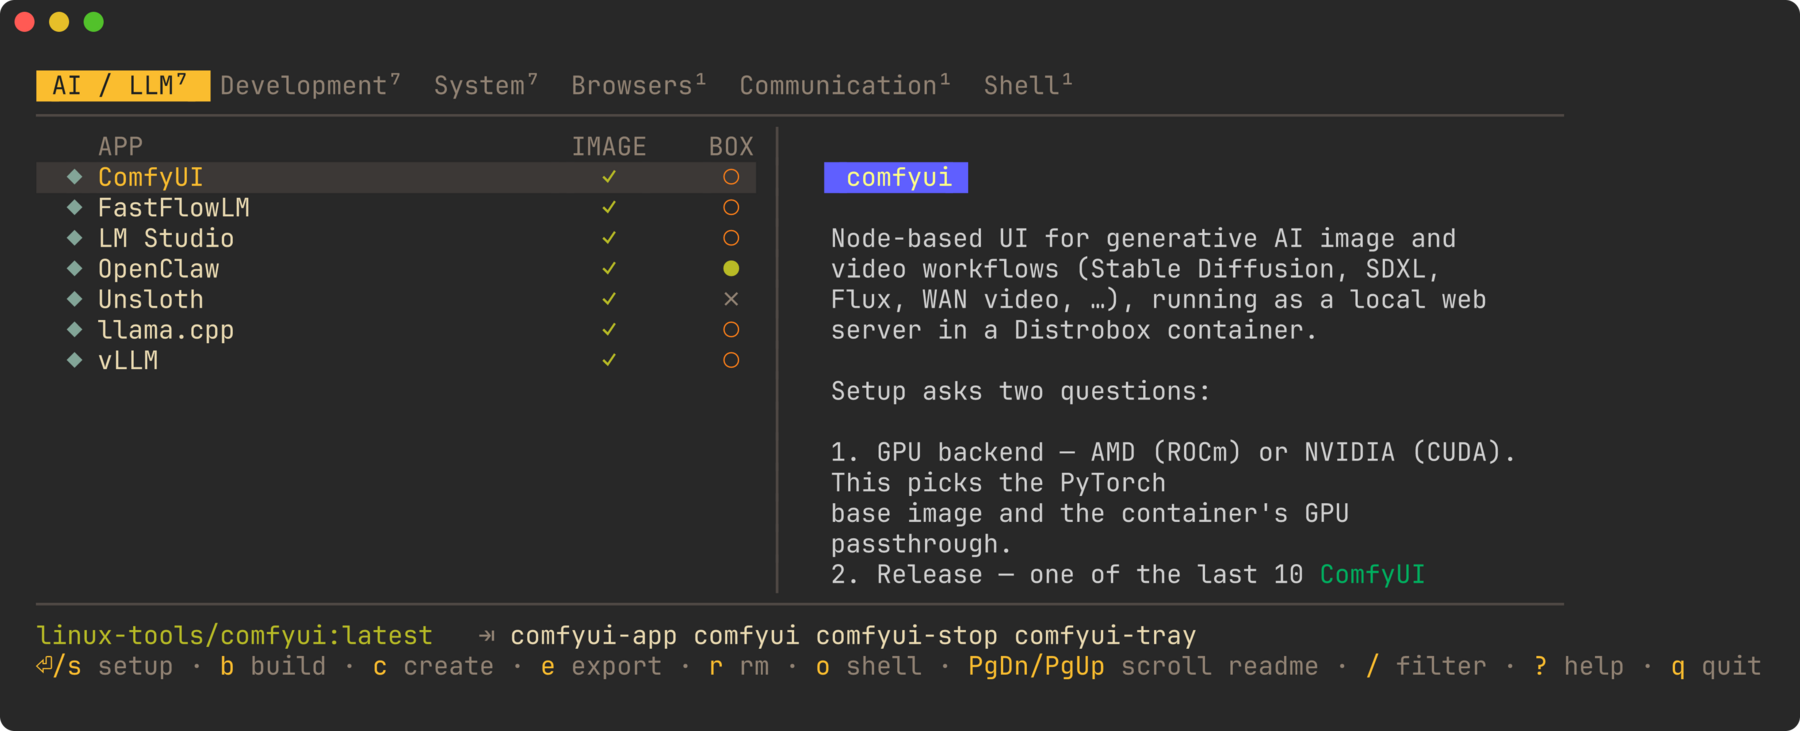
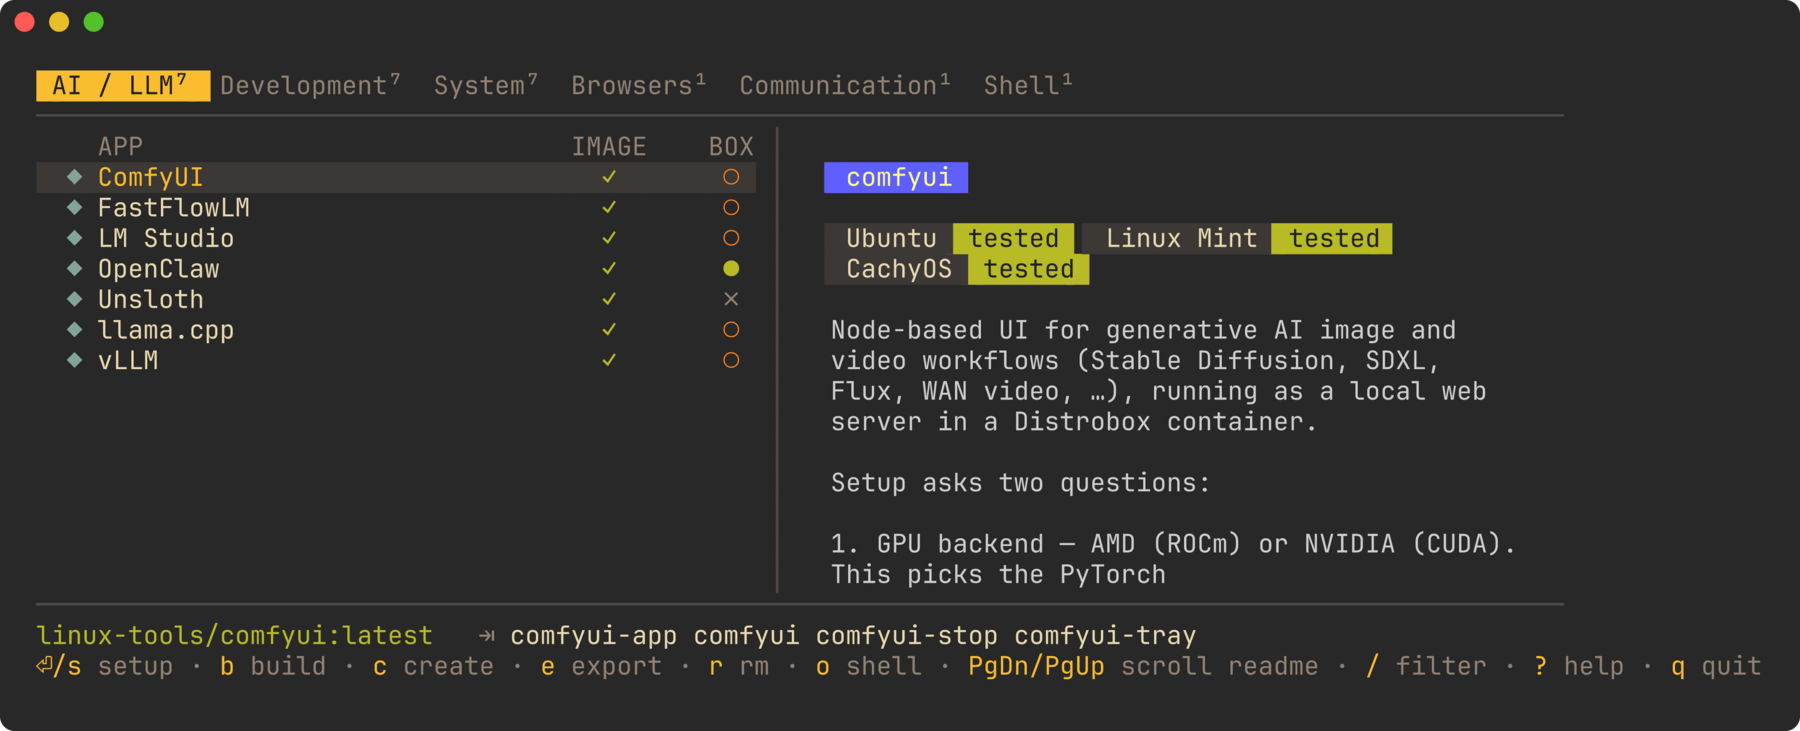
feat(tui): render compatibility badges in the README panel
The badge rows added in 2f73985 are raw HTML, which glamour drops, so
they showed on GitHub but not in the dashboard — the panel the user
actually reads before installing an app.

tui/badges.go now lifts the row out of the README before rendering and
paints it back in as two-tone terminal pills: a dim label half and a
verdict half, green for tested and grey for untested. The row keeps its
position under the heading and glamour's left margin, and wraps instead
of spilling past the panel edge when the pane is narrow.

The README stays the single source of truth — no per-app metadata file
to drift out of sync with what GitHub shows. The parser keys on the
first HTML <p> holding img.shields.io links, reads label and value from
each alt="<label>: <value>", and takes the verdict from the URL colour
rather than the alt text, so the pill always matches the badge. A
README with no badge row renders exactly as before.

CLAUDE.md's note that the HTML form is invisible in the panel is no
longer true; corrected, with the parser's expectations written down.
docs/images/dashboard.png regenerated to show the pills.

Changed region(s): [[0.4667, 0.301, 0.84, 0.8126]]

diff --git a/tui/badges_test.go b/tui/badges_test.go
@@ -1,0 +1,138 @@
+package main
+
+import (
+	"charm.land/lipgloss/v2"
+	"strings"
+	"testing"
+)
+
+const shields = "https://img.shields.io/badge"
+
+func badgeReadme(cachy string) string {
+	return "# nvtop\n\n<p>\n" +
+		`  <img alt="Ubuntu: tested" src="` + shields + `/Ubuntu-tested-brightgreen?logo=ubuntu&logoColor=white">` + "\n" +
+		`  <img alt="Linux Mint: tested" src="` + shields + `/Linux_Mint-tested-brightgreen?logo=linuxmint&logoColor=white">` + "\n" +
+		`  <img alt="CachyOS: ` + cachy + `" src="` + shields + `/CachyOS-` + cachy + `-lightgrey?logo=archlinux&logoColor=white">` + "\n" +
+		"</p>\n\nSome description.\n"
+}
+
+func TestExtractBadges(t *testing.T) {
+	src, badges := extractBadges(badgeReadme("untested"))
+
+	if len(badges) != 3 {
+		t.Fatalf("got %d badges, want 3: %+v", len(badges), badges)
+	}
+	want := []badge{
+		{label: "Ubuntu", value: "tested", ok: true},
+		{label: "Linux Mint", value: "tested", ok: true},
+		{label: "CachyOS", value: "untested", ok: false},
+	}
+	for i, w := range want {
+		if badges[i] != w {
+			t.Errorf("badge %d = %+v, want %+v", i, badges[i], w)
+		}
+	}
+
+	// The HTML must be gone, replaced by a placeholder glamour can render, or
+	// the row would be dropped silently and the pills would have nowhere to go.
+	if strings.Contains(src, "<img") || strings.Contains(src, "shields.io") {
+		t.Errorf("badge HTML survived extraction:\n%s", src)
+	}
+	if !strings.Contains(src, badgePlaceholder) {
+		t.Errorf("placeholder missing from:\n%s", src)
+	}
+	if !strings.Contains(src, "# nvtop") || !strings.Contains(src, "Some description.") {
+		t.Errorf("extraction ate surrounding content:\n%s", src)
+	}
+}
+
+// The verdict comes from the shields colour, not the alt text, so a README
+// whose two halves disagree still renders the colour a reader sees on GitHub.
+func TestExtractBadgesVerdictFollowsColour(t *testing.T) {
+	_, badges := extractBadges(badgeReadme("tested"))
+	if len(badges) != 3 {
+		t.Fatalf("got %d badges, want 3", len(badges))
+	}
+	if badges[2].ok {
+		t.Errorf("CachyOS badge on a -lightgrey URL reported ok; colour must win over alt text")
+	}
+}
+
+// Apps that predate the convention must render exactly as before.
+func TestExtractBadgesNoBadgeRow(t *testing.T) {
+	plain := "# plain\n\nJust a README.\n"
+	src, badges := extractBadges(plain)
+	if badges != nil {
+		t.Errorf("found badges in a plain README: %+v", badges)
+	}
+	if src != plain {
+		t.Errorf("plain README was modified:\n%q", src)
+	}
+}
+
+// An unrelated HTML paragraph (a <details> block, a centred image) must not be
+// mistaken for the badge row.
+func TestExtractBadgesIgnoresNonShieldsHTML(t *testing.T) {
+	md := "# app\n\n<p>\n  <img alt=\"diagram\" src=\"docs/diagram.png\">\n</p>\n"
+	src, badges := extractBadges(md)
+	if badges != nil {
+		t.Errorf("non-shields HTML parsed as badges: %+v", badges)
+	}
+	if src != md {
+		t.Errorf("non-shields HTML was rewritten:\n%q", src)
+	}
+}
+
+func TestInjectBadgesKeepsIndentAndOrder(t *testing.T) {
+	badges := []badge{
+		{label: "Ubuntu", value: "tested", ok: true},
+		{label: "CachyOS", value: "untested", ok: false},
+	}
+	rendered := "  title\n\n  " + badgePlaceholder + "\n\n  body text"
+	out := injectBadges(rendered, badges, 80)
+
+	if strings.Contains(out, badgePlaceholder) {
+		t.Errorf("placeholder left in output:\n%s", out)
+	}
+	lines := strings.Split(out, "\n")
+	if len(lines) != 5 {
+		t.Fatalf("got %d lines, want 5 (one row at width 80):\n%s", len(lines), out)
+	}
+	if !strings.HasPrefix(lines[2], "  ") {
+		t.Errorf("badge row lost glamour's left margin: %q", lines[2])
+	}
+	if !strings.Contains(lines[2], "Ubuntu") || !strings.Contains(lines[2], "CachyOS") {
+		t.Errorf("badge row missing labels: %q", lines[2])
+	}
+	if lines[0] != "  title" || lines[4] != "  body text" {
+		t.Errorf("surrounding lines disturbed:\n%s", out)
+	}
+}
+
+// A narrow panel must wrap the row rather than spill past the panel edge and
+// corrupt the column layout.
+func TestRenderBadgesWrapsWhenNarrow(t *testing.T) {
+	badges := []badge{
+		{label: "Ubuntu", value: "tested", ok: true},
+		{label: "Linux Mint", value: "tested", ok: true},
+		{label: "CachyOS", value: "untested", ok: false},
+	}
+	if got := renderBadges(badges, 200); len(got) != 1 {
+		t.Errorf("width 200: got %d rows, want 1", len(got))
+	}
+	narrow := renderBadges(badges, 20)
+	if len(narrow) < 2 {
+		t.Errorf("width 20: got %d rows, want the row wrapped", len(narrow))
+	}
+	for i, l := range narrow {
+		if w := lipgloss.Width(l); w > 20 {
+			t.Errorf("row %d is %d cells wide, want <= 20", i, w)
+		}
+	}
+}
+
+func TestRenderBadgesEmpty(t *testing.T) {
+	if got := renderBadges(nil, 80); got != nil {
+		t.Errorf("got %v, want nil", got)
+	}
+}

diff --git a/tui/badges.go b/tui/badges.go
@@ -1,0 +1,153 @@
+package main
+
+import (
+	"regexp"
+	"strings"
+
+	"charm.land/lipgloss/v2"
+)
+
+// Compatibility badges.
+//
+// Every apps/<name>/README.md opens with a shields.io badge row saying which
+// distros the app has been run on. On GitHub those are images; in this panel
+// they are drawn as two-tone pills, so the same fact reaches both audiences
+// from one source — the README — with no per-app metadata file to drift.
+//
+// The row is raw HTML in the README on purpose (see CLAUDE.md): glamour
+// expands a markdown image into three lines of "Image: <alt> -> <full URL>",
+// which would bury the app's description under shields.io URLs. Raw HTML it
+// skips entirely, which is why we lift the badges out ourselves.
+
+// badgePlaceholder stands in for the badge row while glamour renders the rest
+// of the document. It survives rendering as an ordinary one-word paragraph,
+// which gives us glamour's own left margin to align the pills against.
+const badgePlaceholder = "%%LT-BADGES%%"
+
+// badge is one distro's verdict: "Ubuntu" / "tested".
+type badge struct {
+	label string
+	value string
+	ok    bool
+}
+
+var (
+	// The badge row: the first HTML paragraph holding shields.io images.
+	badgeBlockRe = regexp.MustCompile(`(?s)<p>\s*(?:<img[^>]*>\s*)+</p>`)
+	badgeImgRe   = regexp.MustCompile(`<img\s+[^>]*>`)
+	badgeAltRe   = regexp.MustCompile(`alt="([^"]*)"`)
+	badgeSrcRe   = regexp.MustCompile(`src="([^"]*)"`)
+)
+
+// extractBadges pulls the badge row out of a README, returning the markdown
+// with the row swapped for badgePlaceholder and the badges it found.
+//
+// A README with no badge row comes back untouched and with no badges, so apps
+// that predate the convention still render normally.
+func extractBadges(md string) (string, []badge) {
+	loc := badgeBlockRe.FindStringIndex(md)
+	if loc == nil {
+		return md, nil
+	}
+	block := md[loc[0]:loc[1]]
+	if !strings.Contains(block, "img.shields.io") {
+		return md, nil
+	}
+
+	var badges []badge
+	for _, tag := range badgeImgRe.FindAllString(block, -1) {
+		alt := badgeAltRe.FindStringSubmatch(tag)
+		if alt == nil {
+			continue
+		}
+		label, value, found := strings.Cut(alt[1], ":")
+		if !found {
+			continue
+		}
+		// The colour in the shields URL is the authoritative verdict; the alt
+		// text only has to agree with it for screen readers and for GitHub.
+		src := ""
+		if m := badgeSrcRe.FindStringSubmatch(tag); m != nil {
+			src = m[1]
+		}
+		badges = append(badges, badge{
+			label: strings.TrimSpace(label),
+			value: strings.TrimSpace(value),
+			ok:    strings.Contains(src, "-brightgreen") || strings.Contains(src, "-green"),
+		})
+	}
+	if len(badges) == 0 {
+		return md, nil
+	}
+	return md[:loc[0]] + badgePlaceholder + md[loc[1]:], badges
+}
+
+var (
+	// Two-tone pills, the same shape shields.io draws: a dim label half and a
+	// verdict half coloured by the answer.
+	styBadgeLabel = lipgloss.NewStyle().
+			Foreground(colFg).Background(colSelBg).Padding(0, 1)
+	styBadgeOK = lipgloss.NewStyle().Bold(true).
+			Foreground(lipgloss.Color("#1d2021")).Background(colOK).Padding(0, 1)
+	styBadgeNo = lipgloss.NewStyle().
+			Foreground(colDim).Background(colBorder).Padding(0, 1)
+)
+
+// renderBadges lays the pills out in rows no wider than width, wrapping rather
+// than spilling past the panel edge and corrupting the column layout.
+func renderBadges(badges []badge, width int) []string {
+	if len(badges) == 0 {
+		return nil
+	}
+	if width < 10 {
+		width = 10
+	}
+
+	var (
+		lines []string
+		cur   string
+		curW  int
+	)
+	for _, b := range badges {
+		verdict := styBadgeNo
+		if b.ok {
+			verdict = styBadgeOK
+		}
+		pill := styBadgeLabel.Render(b.label) + verdict.Render(b.value)
+		pw := lipgloss.Width(pill)
+
+		switch {
+		case cur == "":
+			cur, curW = pill, pw
+		case curW+1+pw <= width:
+			cur, curW = cur+" "+pill, curW+1+pw
+		default:
+			lines = append(lines, cur)
+			cur, curW = pill, pw
+		}
+	}
+	if cur != "" {
+		lines = append(lines, cur)
+	}
+	return lines
+}
+
+// injectBadges swaps the rendered placeholder line for the pill rows, reusing
+// that line's left margin so the badges align with glamour's body text.
+func injectBadges(rendered string, badges []badge, width int) string {
+	lines := strings.Split(rendered, "\n")
+	for i, l := range lines {
+		if !strings.Contains(l, badgePlaceholder) {
+			continue
+		}
+		indent := l[:len(l)-len(strings.TrimLeft(l, " "))]
+		pills := renderBadges(badges, width-len(indent))
+		out := make([]string, 0, len(lines)+len(pills))
+		out = append(out, lines[:i]...)
+		for _, p := range pills {
+			out = append(out, indent+p)
+		}
+		return strings.Join(append(out, lines[i+1:]...), "\n")
+	}
+	return rendered
+}

diff --git a/tui/info.go b/tui/info.go
@@ -38,12 +38,17 @@ func (p *infoPanel) readme(app string, width int) string {
 		return out
 	}
 
-	md, err := renderMarkdown(string(raw), width)
+	// The compatibility badge row is raw HTML, which glamour drops on the
+	// floor. Lift it out first and paint it back in after rendering.
+	src, badges := extractBadges(string(raw))
+
+	md, err := renderMarkdown(src, width)
 	if err != nil {
 		out := styWarn.Render("could not render README: " + err.Error())
 		p.cache[key] = out
 		return out
 	}
+	md = injectBadges(md, badges, width)
 	p.cache[key] = md
 	return md
 }

diff --git a/CLAUDE.md b/CLAUDE.md
@@ -118,7 +118,9 @@ Optionally add `icon.png` or `icon.svg` — if present, it overrides whatever ic
 
 Every `apps/<name>/README.md` opens with a compatibility badge row directly under the `# <name>` heading — three shields.io badges saying which distros the app has actually been run on. Ubuntu and Linux Mint are green everywhere (that is where everything is developed); CachyOS is green only for apps exercised on an Arch-family host, and grey (`untested`) otherwise. The legend lives in the main `README.md` under `## Apps`.
 
-**Write the row as a raw HTML `<p>` block, never as markdown `![alt](url)` images.** GitHub renders both identically, but the dashboard renders each README through glamour, which expands a markdown image into three lines of `Image: <alt> → <full URL>` — nine lines of shields.io URLs shoved above the app's actual description. Glamour skips raw HTML blocks entirely, so the HTML form is invisible in the info panel and costs the dashboard nothing.
+**Write the row as a raw HTML `<p>` block, never as markdown `![alt](url)` images.** GitHub renders both identically, but the dashboard renders each README through glamour, which expands a markdown image into three lines of `Image: <alt> → <full URL>` — nine lines of shields.io URLs shoved above the app's actual description. Glamour skips raw HTML blocks entirely, so `tui/badges.go` lifts the row out before rendering and paints it back in as coloured terminal pills (`extractBadges` → `injectBadges`, wired into `infoPanel.readme`). The README is the single source of truth for both audiences — there is no per-app metadata file for this.
+
+The parser keys on the **first** HTML `<p>` block containing `img.shields.io`, reads the label and value from each `<img>`'s `alt="<label>: <value>"`, and takes the verdict from the **URL colour** (`-brightgreen` ⇒ green pill, anything else ⇒ grey). Keep the alt text and the colour in agreement; the colour is what wins. An app whose README has no badge row renders exactly as before, so this is safe for any README that predates the convention.
 
 ```markdown
 # <name>

diff --git a/README.md b/README.md
@@ -41,7 +41,8 @@ Apps with choices ask them first. Nothing is built, removed or installed until y
 `tools setup <name>` installs any of these. Names linked below have their own docs page with usage, storage paths and GPU notes.
 
 Each docs page opens with compatibility badges saying which distros that app has
-actually been run on:
+actually been run on. They show as badges here on GitHub and as coloured pills in
+the dashboard's README panel:
 
 <p>
   <img alt="Ubuntu: tested" src="https://img.shields.io/badge/Ubuntu-tested-brightgreen?logo=ubuntu&logoColor=white">
